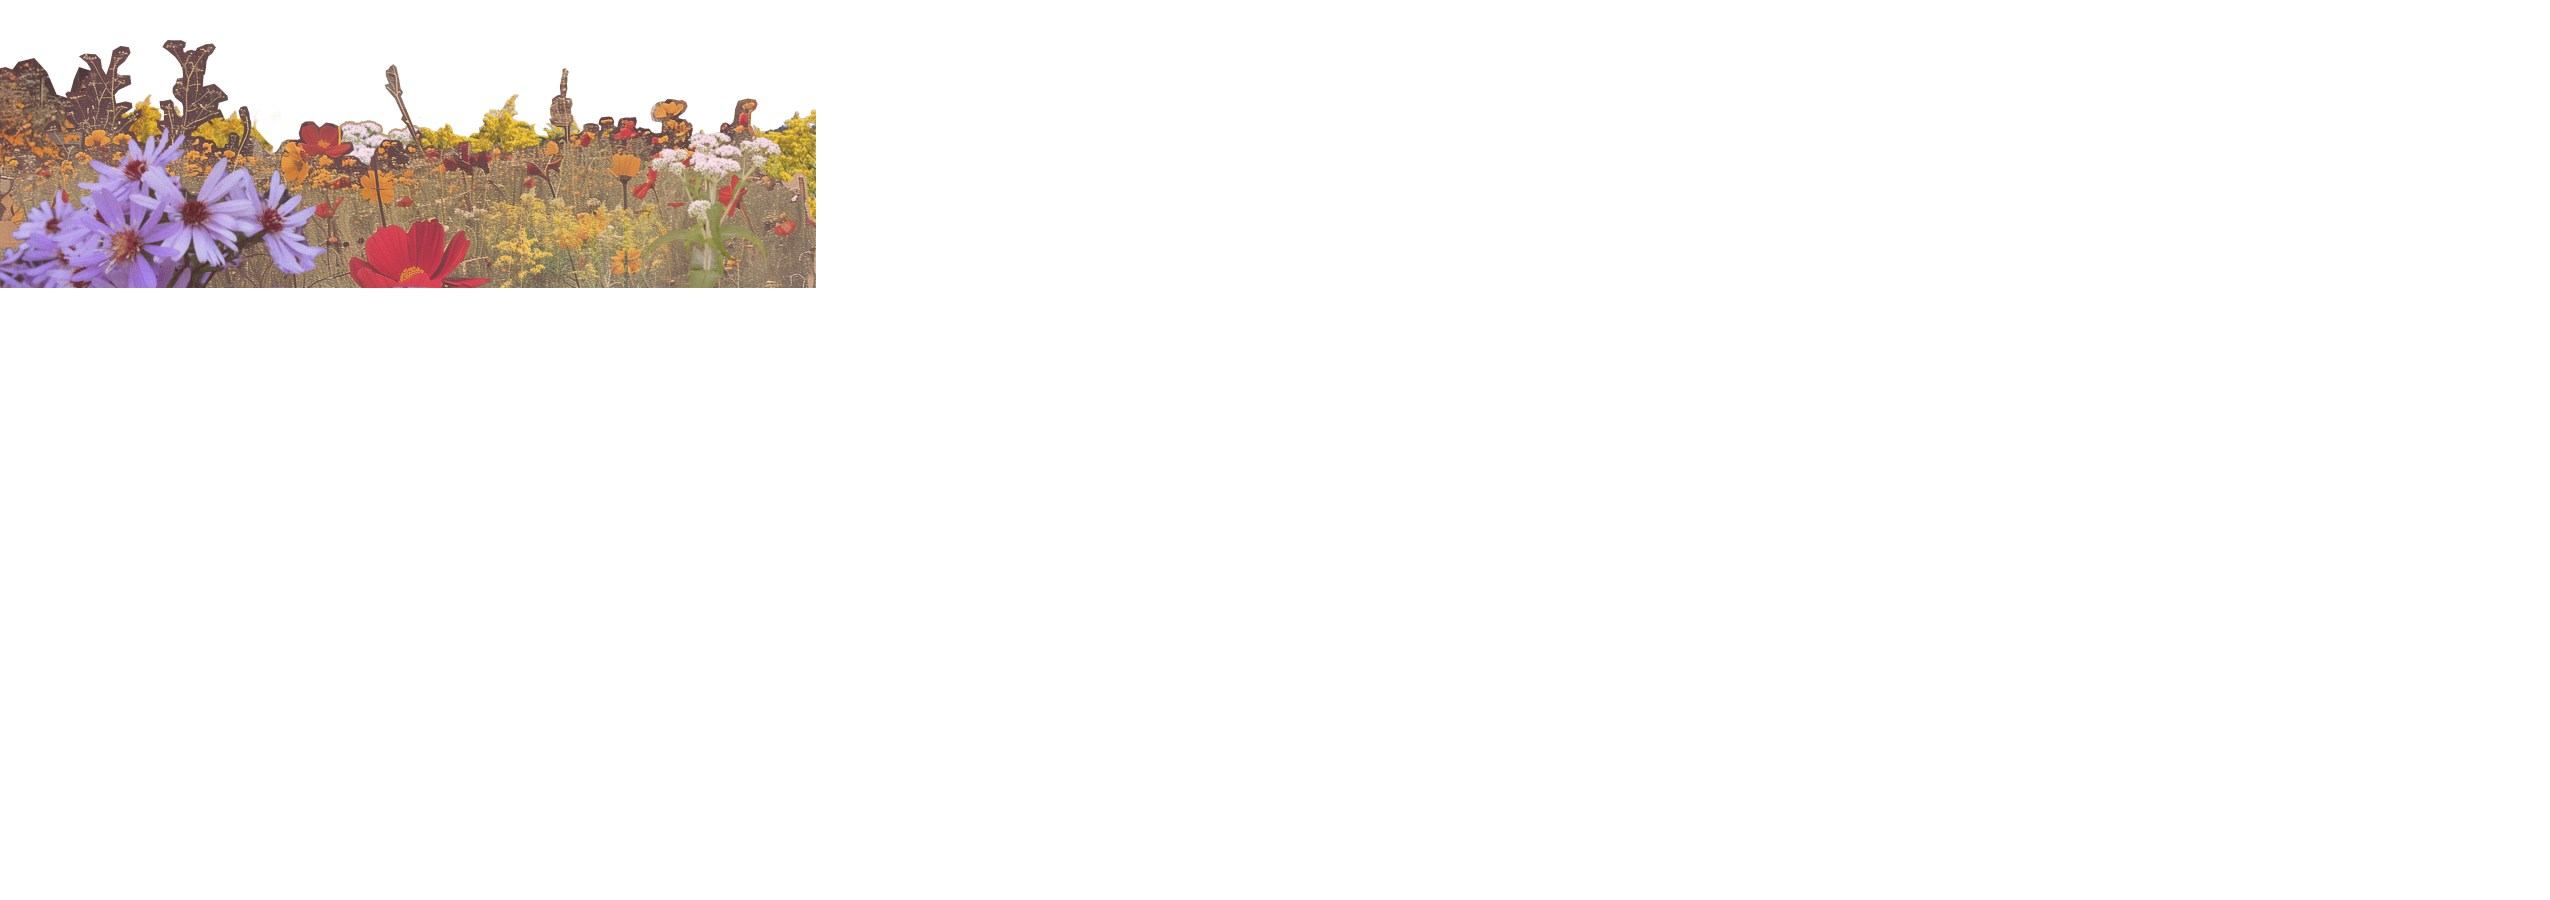
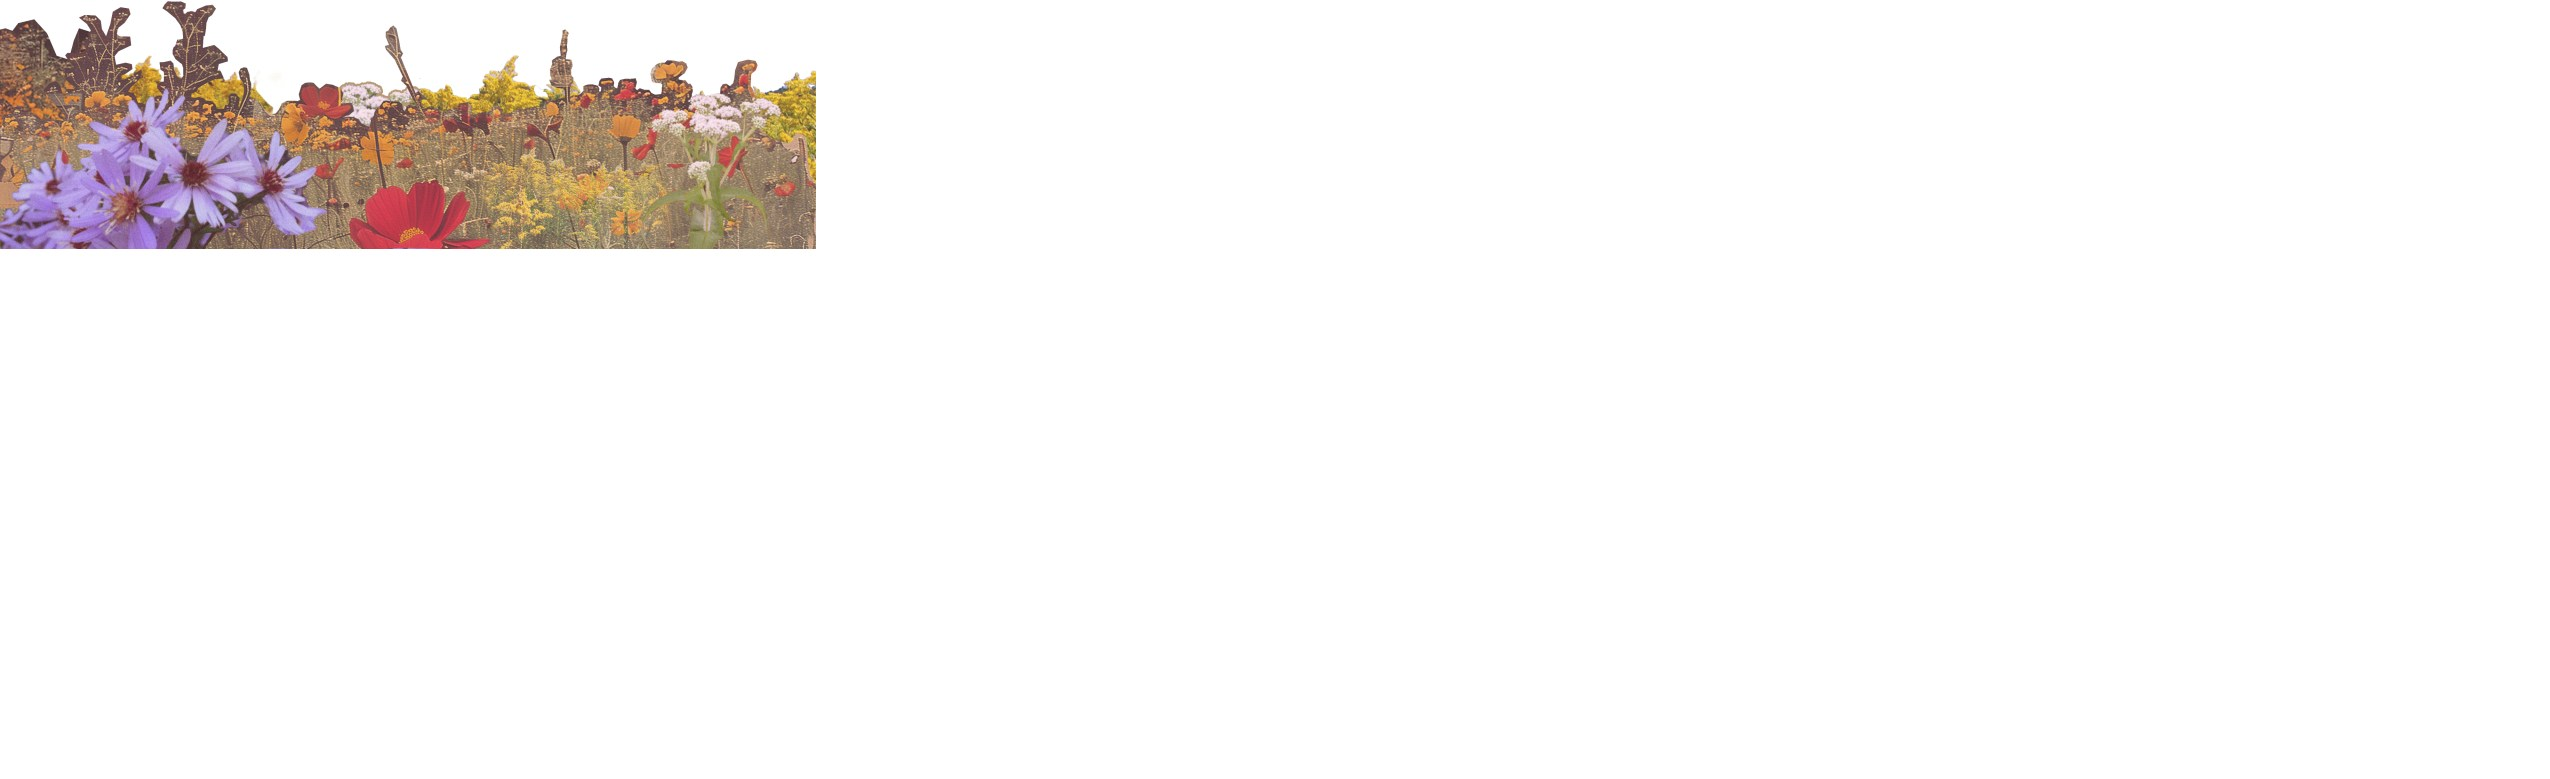
Fix Seed Bomb page: flower bleed PNG, seedbomb filenames, broken link
- Use original PNG for flower collage (transparent bg, true full-bleed)
- Remove converted JPG with white canvas whitespace issue
- Rename seadbomb1-3.jpg → seedbomb1-3.jpg (fix typo)
- Fix broken seedbomb2-2.jpg reference in In the Field section
- Update HTML image refs accordingly

Changed region(s): [[0.0, 0.0, 0.3408, 0.3389]]

diff --git a/projects/seedbomb/index.html b/projects/seedbomb/index.html
@@ -221,9 +221,9 @@
       <span class="project-section-label">The Seed Bombs</span>
 
       <div class="gallery-row">
-        <img src="/assets/img/projects/Seed Bomb/seadbomb1-3.jpg" alt="Seed bomb" style="flex: 0.753">
-        <img src="/assets/img/projects/Seed Bomb/seadbomb1-4.jpg" alt="Seed bomb" style="flex: 0.753">
-        <img src="/assets/img/projects/Seed Bomb/seadbomb2.jpg" alt="Seed bomb" style="flex: 0.753">
+        <img src="/assets/img/projects/Seed Bomb/seedbomb1.jpg" alt="Seed bomb" style="flex: 0.753">
+        <img src="/assets/img/projects/Seed Bomb/seedbomb2.jpg" alt="Seed bomb" style="flex: 0.753">
+        <img src="/assets/img/projects/Seed Bomb/seedbomb3.jpg" alt="Seed bomb" style="flex: 0.753">
       </div>
 
       <div class="media-full">
@@ -235,9 +235,8 @@
       <!-- In the field -->
       <span class="project-section-label">In the Field</span>
 
-      <div class="media-2up">
+      <div class="media-full">
         <img src="/assets/img/projects/Seed Bomb/seedbomb2-1.jpg" alt="Seed bomb in field">
-        <img src="/assets/img/projects/Seed Bomb/seedbomb2-2.jpg" alt="Seed bomb in field">
       </div>
 
       <div class="media-full">
@@ -248,7 +247,7 @@
   </div>
 
   <div class="flower-bleed">
-    <img src="/assets/img/projects/Seed Bomb/flowercolalge_bottom.jpg" alt="Wildflower collage" style="width:100%; display:block;">
+    <img src="/assets/img/projects/Seed Bomb/flowercolalge_bottom.png" alt="Wildflower collage" style="width:100%; display:block;">
   </div>
 
   <script src="/assets/js/lightbox.js"></script>